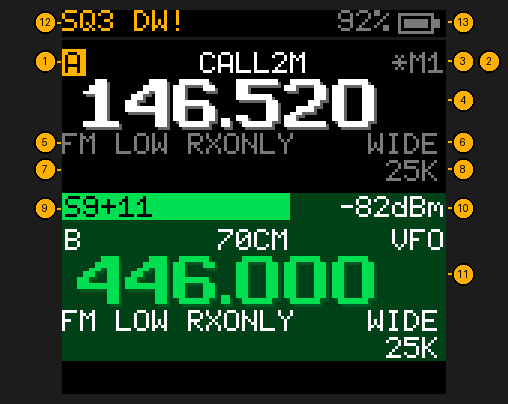
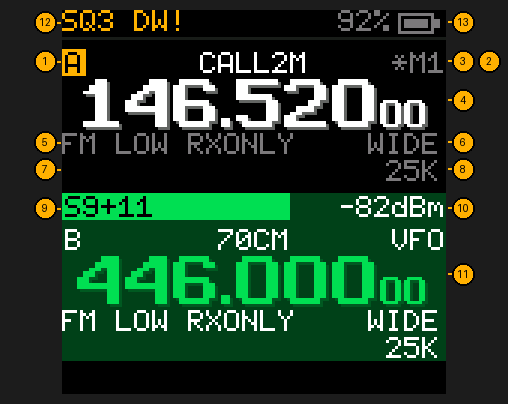
Always show the two small digits below 1 kHz
146.520 with a small 00, 462.562 with a small 50, in every DIGITS look, as USB always did.
The code that hid them when zero and cleared them once gone goes (small, kbit): -91 B.

Changed region(s): [[0.7382, 0.2376, 0.8563, 0.3267], [0.7382, 0.6832, 0.8563, 0.7723]]

diff --git a/fw/main.c b/fw/main.c
@@ -520,7 +520,6 @@ void right(__xdata char *p, const __code char *a, const __code char *b) __reentr
 }
 
 __xdata uint8_t tinted[2];           // the tint each slot's block is on (0: none), so going back to bg fills it too
-uint8_t small;                       // bit i: slot i shows its 10 Hz digits
 // DIGITS: how the slots' frequencies look. CLASSIC is the 5x7 font at 2x (lcd_text). ARCADE and LCD
 // draw each character as fills, not mirrored: REMOTE gets CLASSIC's text instead, so a computer reads
 // the frequency, a picture shows it in the 5x7 font, and the wire carries no more. Big digits from x 5,
@@ -552,8 +551,8 @@ const __code uint8_t seg_r[] = {     // LCD segments a-g in px: big, three each 
 };
 const __code uint8_t seg7[10] = {0x3F, 0x06, 0x5B, 0x4F, 0x66, 0x6D, 0x7D, 0x07, 0x7F, 0x6F};   // bit 0 a (top) .. 6 g (middle)
 const __code uint8_t dots[] = {0x03, 0x6A, 0x03, 0x7A};   // the point, 3x3 on the bottom rows: ARCADE (at its row 13), LCD (15)
-// The frequency from buf + k (0-6: the big digits from the first that changed; 20: the small ones,
-// spaces to clear them) in slot y's frequency rows, colour fc.
+// The frequency from buf + k (0-6: the big digits from the first that changed; 20: the two small
+// ones) in slot y's frequency rows, colour fc.
 // asm/freq_text.asm; this C is the reference (make CFUN=freq_text builds it)
 void freq_text(uint8_t k, uint8_t y, uint8_t fc) __reentrant;
 #ifdef C_FREQ_TEXT
@@ -658,19 +657,7 @@ void draw_slot(uint8_t i) __reentrant
     if (fast && shown_c[i] == pal[fc]) while (k < 7 && buf[k] == shown[i][k]) k++;
     if (k < 7) freq_text(k, y, fc);
     xcat(shown[i], buf); shown_c[i] = pal[fc];   // the colour, not the index: as drawn
-    // The digits below 1 kHz, small after it: USB's 100 Hz and 10 Hz always; otherwise only when there
-    // are any, so a 12.5 kHz channel reads whole (462.562 and a small 5). Cleared only once gone (REMOTE
-    // mirrors each fill).
-    k = 1 << i;
-    if (dc.mode != MOD_USB && buf[21] == '0') {
-        if (buf[20] == '0') goto none;
-        buf[21] = ' ';                      // "5 ": the space wipes a 10 Hz digit left from before
-    }
-    freq_text(20, y, fc); small |= k;
-    goto shown_small;
-none:
-    if (small & k) { buf[20] = buf[21] = ' '; freq_text(20, y, fc); small &= ~k; }
-shown_small:
+    freq_text(20, y, fc);                   // the 100 Hz and 10 Hz digits, small after it, always: 146.520 00, 462.562 50
 
     p = cat(buf, mode_s[dc.mode]);          // mode, power, shift ... bandwidth; USB: receive only
     *p++ = ' ';

diff --git a/tools/asmdiff.py b/tools/asmdiff.py
@@ -256,7 +256,7 @@ def gen_draw_slot(r):
     pk = {CFG('ACT'): [r.randrange(2)], 'peek': [r.randrange(4)], 'tx': bit(0.3), 'open': bit(), 'fast': bit(), 'wxm': bit(0.2),
           'ch': chan(r), 'main_ch': chan(r), 'other': chan(r), 'pal': r.randbytes(16), CFG('THEME'): [r.randrange(256)],
           S(0, 'SLOT_MEM'): [r.randrange(2)], S(1, 'SLOT_MEM'): [r.randrange(2)], S(0, 'SLOT_CHN'): [r.randrange(200)], S(1, 'SLOT_CHN'): [r.randrange(200)],
-          'tinted': [r.choice([0, 7, 8]), r.choice([0, 7, 8])], 'small': [r.randrange(4)], 'shown': r.randbytes(16), 'shown_c': r.randbytes(4),
+          'tinted': [r.choice([0, 7, 8]), r.choice([0, 7, 8])], 'shown': r.randbytes(16), 'shown_c': r.randbytes(4),
           'dtmf_n': [r.randrange(6)], 'dtmf': bytes(r.choice(b'0123456789ABCD*#') for _ in range(r.randrange(17))) + b'\0',
           'heard': r.choice([0, 0, 1000, r.randrange(0x10000)]).to_bytes(2, 'little'), 'mirror': bit(0.3),
           'cfg+%d' % K['CFG_DIGITS']: [r.randrange(256)]}   # DIGITS: freq_text's style, slot_label's place
@@ -270,7 +270,7 @@ def gen_draw_slot(r):
 
 def gen_freq_text(r):
     big = r.choice([b'146.520', b'446.006', b'462.562', b' 18.000', b'999.999', bytes(r.choice(b'0123456789. :') for _ in range(7))])
-    small = r.choice([b'25', b'5 ', b'  ', b'00', bytes(r.choice(b'0123456789 ') for _ in range(2))])
+    small = r.choice([b'25', b'50', b'00', b'  ', bytes(r.choice(b'0123456789 ') for _ in range(2))])
     buf = bytearray(r.randbytes(48))
     buf[0:8], buf[20:23] = big + b'\0', small + b'\0'
     pk = {'cfg+%d' % K['CFG_DIGITS']: [r.randrange(256)], 'buf': bytes(buf), 'pal': r.randbytes(16), 'mirror': [r.random() < 0.4]}

diff --git a/fw/test_fw.py b/fw/test_fw.py
@@ -2482,13 +2482,13 @@ def test_digits(cpu, style):               # DIGITS: the look's pixels in slot A
         assert px(17, y + 9) == px(18, y + 16) == px(5, y + 12) == px(18, y + 25) == bg, 'LCD 1: its corners, notch, foot'
         assert {px(x, yy) for x in range(128) for yy in range(y + 8, y + 27)} == {fg, bg}, 'more than two colours'
         assert px(53, y + 23) == px(55, y + 25) == fg and px(56, y + 25) == px(53, y + 22) == bg, 'the point not 3x3 on the bottom rows'
-    # A fast redraw (the digits that changed) and a 12.5 kHz small digit come and go cleanly: as a full redraw
+    # A fast redraw (the digits that changed) and the two small digits, always there, change cleanly: as a full redraw
     keys(cpu, ['EXIT'])                    # V/M: channel 1, 146.520
-    for k, f, small in (('UP', '462.562', '5 '), ('DOWN', '146.520', '  ')):
+    for k, f, small in (('UP', '462.562', '50'), ('DOWN', '146.520', '00')):
         keys(cpu, [k])
         cpu.run(1_000_000)
         fast, t = look()
-        assert t[(y + 9, 32)][3] == f and t.get((y + 17, 116), ('',) * 4)[3].strip() == small.strip(), (k, t[(y + 9, 32)], t.get((y + 17, 116)))
+        assert t[(y + 9, 32)][3] == f and t.get((y + 17, 116), ('',) * 4)[3] == small, (k, t[(y + 9, 32)], t.get((y + 17, 116)))
         keys(cpu, ['MENU', 'EXIT'])        # the whole screen again
         cpu.run(1_000_000)
         assert look()[0] == fast, 'a redraw of %s left pixels a full redraw has not' % f

diff --git a/tools/screens.py b/tools/screens.py
@@ -226,7 +226,7 @@ def capture():
         cpu.run(2_000_000)
         save(cpu, 'theme%d' % n)
 
-    for n in range(DIGITS):                # GMRS channel 1: 462.5625, a small 5
+    for n in range(DIGITS):                # GMRS channel 1: 462.5625, a small 50
         cpu = memory()
         t.keys(cpu, ['0', '0', '2'])
         if n:

diff --git a/docs/manual/Home-Screen.md b/docs/manual/Home-Screen.md
@@ -27,8 +27,8 @@ Both slots are laid out the same way, under a status bar. The meter sits between
    `VFO` in frequency mode. With MENU → DIGITS on CLASSIC it sits left of the frequency instead.
 4. **Frequency** in MHz. Green while a signal is coming through, red while transmitting. MENU →
    DIGITS picks how the numbers look: ARCADE (here), LCD or CLASSIC. Digits
-   below 1 kHz show small after it: GMRS channel 1 reads `462.562` with a small `5` (462.5625 MHz).
-   In USB the last two digits are always there.
+   below 1 kHz always show small after it: GMRS channel 1 reads `462.562` with a small `50`
+   (462.5625 MHz), and 146.520 MHz reads `146.520` with a small `00`.
 5. **Mode, power and shift**: `FM`, `AM` (aircraft) or `USB` ([SSB](#listening-to-ssb), with just `RXONLY` after it); transmit power `HIGH`, `MID`, `LOW` or
    `ULOW` (ultra-low); the repeater shift, `-0.6` (transmit 0.6 MHz below) or `+5` (5 MHz above), nothing
    when simplex, or `TXLOCK` / `RXONLY` when the channel can't transmit. In frequency mode with

diff --git a/CHANGELOG.md b/CHANGELOG.md
@@ -13,6 +13,8 @@ starts with its part of this list.
 - New: DIGITS (MENU 39) picks how the big frequency numbers look: ARCADE, chunky with a soft
   shadow (the new default); LCD, like a digital clock; or CLASSIC, the look from before. With ARCADE
   and LCD, `VFO` or the memory number sits at the top right of the slot.
+- The frequency always shows its last two digits, small after it: `146.520` with a small `00`,
+  GMRS channel 1 `462.562` with a small `50`. They used to show only when they weren't zero.
 - The menu items from SCAN GROUP on moved down one place, and those after THEME one more: SCAN
   GROUP is now 21, KEY BEEP 40, PC LINK 46, REMOTE 47 and VERSION 52.
 - tdh3: `tdh3 remote screen` reads the frequency and memory number in every DIGITS look.
